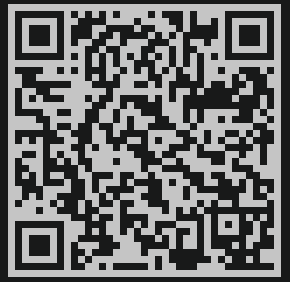
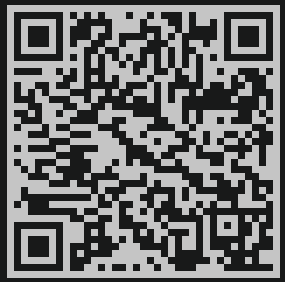
atualizacoes

Changed region(s): [[0.0, 0.0, 0.9825, 0.9929]]

diff --git a/index.html b/index.html
@@ -624,7 +624,7 @@ footer p{font-size:.8rem;color:rgba(255,255,255,.3);}
         <div class="app-feat">Relatórios de bem-estar por período</div>
       </div>
       <div class="app-badges reveal">
-        <a href="https://expo.dev/accounts/hhcs13/projects/meudia/builds/d4d7a79e-2f11-459f-8f43-b474925427f4" target="_blank" class="badge badge-ativo">
+        <a href="https://expo.dev/accounts/hhcs13/projects/meudia/builds/9ab1fb2e-6957-475c-bbd9-4eac34f52c97" target="_blank" class="badge badge-ativo">
           <svg width="15" height="15" viewBox="0 0 24 24" fill="currentColor"><path d="M3.18 23.76c.35.19.74.24 1.12.14l12.53-7.18-2.61-2.62-11.04 9.66zM20.7 10.67L17.77 9 14.97 11.8l2.8 2.8 2.95-1.69c.84-.48.84-1.76-.02-2.24zM1.05.87C.8 1.16.66 1.6.66 2.16v19.67c0 .56.14 1 .4 1.29l.07.06 11.02-11.02v-.26L1.12.81l-.07.06zM14.97 12.2L3.3.53l-.12-.11 12.53 7.18-2.8 2.8 2.06 1.8z"/></svg>
           Baixar para Android
         </a>
